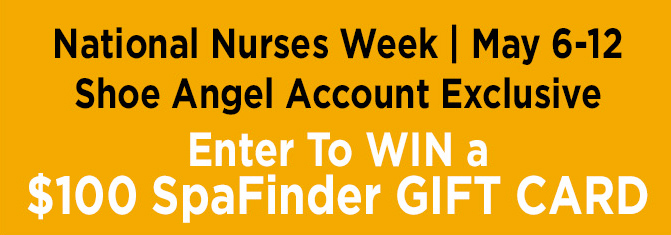
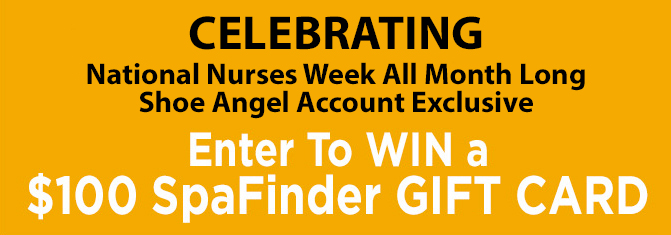
Update To Image
Changed nurses_week_contest.jpg to reflect what was submitted to me. Also cleaned up some of the index.html file. Will revisit.

Changed region(s): [[0.0596, 0.0596, 0.924, 0.5064]]

diff --git a/index.html b/index.html
@@ -18,18 +18,14 @@
   <link href="https://fonts.googleapis.com/css?family=Lato:300,400" rel="stylesheet">
   <link rel="stylesheet" href="https://maxcdn.bootstrapcdn.com/bootstrap/4.0.0/css/bootstrap.min.css" integrity="sha384-Gn5384xqQ1aoWXA+058RXPxPg6fy4IWvTNh0E263XmFcJlSAwiGgFAW/dAiS6JXm" crossorigin="anonymous">
   <link rel="icon" type="image/png" href="../images/img/favicon2.png" />
-
   <link rel="stylesheet" type="text/css" href="/style.css" />
-
   <!-- Global site tag (gtag.js) - Google Analytics -->
 <script async src="https://www.googletagmanager.com/gtag/js?id=UA-112659555-1"></script>
 <script>
   window.dataLayer = window.dataLayer || [];
   function gtag(){dataLayer.push(arguments);}
   gtag('js', new Date());
-
   gtag('config', 'UA-112659555-1');
-
 </script>
 <script defer src="https://use.fontawesome.com/releases/v5.0.6/js/all.js"></script>
 <!-- Google Tag Manager -->
@@ -40,14 +36,11 @@ j=d.createElement(s),dl=l!='dataLayer'?'&l='+l:'';j.async=true;j.src=
 })(window,document,'script','dataLayer','GTM-P9GWHM2');</script>
 <!-- End Google Tag Manager -->
 </head>
-
-
 <body>
   <!-- Google Tag Manager (noscript) -->
 <noscript><iframe src="https://www.googletagmanager.com/ns.html?id=GTM-P9GWHM2"
 height="0" width="0" style="display:none;visibility:hidden"></iframe></noscript>
 <!-- End Google Tag Manager (noscript) -->
-
   <nav>
     <div class="logo">
 			<a href="http://shoeangel.com/">
@@ -55,106 +48,52 @@ height="0" width="0" style="display:none;visibility:hidden"></iframe></noscript>
 			</a>
 		</div>
     <div class="menu">
-      
         <ul class="navigation">
-          
-            
-            
-
             <li class="first  ">
               <a class="" href="/about/">About</a>
             </li>
-          
-            
-            
-
             <li class="  ">
               <a class="" href="/brands/">Brands</a>
             </li>
-          
-            
-            
-
             <li class="  ">
               <a class="" href="/donations/">Donations</a>
             </li>
-          
-            
-            
-
             <li class="  ">
               <a class="" href="/faq/">FAQs</a>
             </li>
-          
-            
-            
-
             <li class="  ">
               <a class="" href="/contact/">Contact</a>
             </li>
-          
-            
-            
-
             <li class="  last">
               <a class="" href="https://www.customfit.me/cfshoeangelcmdlogin.aspx">Login</a>
             </li>
-          
         </ul>
-      
     </div>
     <div class="hamburger-menu">
       <div class="bar"></div>
     </div>
 </nav>
 <div class="mobile-menu">
-  
     <ul class="navigation">
-      
-        
-        
-
         <li class="first  ">
           <a class="" href="/about/">About</a>
         </li>
-      
-        
-        
-
         <li class="  ">
           <a class="" href="/brands/">Brands</a>
         </li>
-      
-        
-        
-
         <li class="  ">
           <a class="" href="/donations/">Donations</a>
         </li>
-      
-        
-        
-
         <li class="  ">
           <a class="" href="/faq/">FAQs</a>
         </li>
-      
-        
-        
-
         <li class="  ">
           <a class="" href="/contact/">Contact</a>
         </li>
-      
-        
-        
-
         <li class="  last">
           <a class="" href="https://www.customfit.me/cfshoeangelcmdlogin.aspx">Login</a>
         </li>
-      
     </ul>
-  
 </div>
 		<!-- <nav role="navigation" class="main-nav" id="main_nav">
 			<div id="nav-icon1">
@@ -163,114 +102,56 @@ height="0" width="0" style="display:none;visibility:hidden"></iframe></noscript>
 			</div>
 		</nav>
 		<div id="submenu" class="submenu">
-			
 	  		<ul class="navigation">
-			    
-			      
-			      
-
 			      <li class="first  ">
 			        <a class="" href="/about/">About</a>
 			      </li>
-			    
-			      
-			      
-
 			      <li class="  ">
 			        <a class="" href="/brands/">Brands</a>
 			      </li>
-			    
-			      
-			      
-
 			      <li class="  ">
 			        <a class="" href="/donations/">Donations</a>
 			      </li>
-			    
-			      
-			      
-
 			      <li class="  ">
 			        <a class="" href="/faq/">FAQs</a>
 			      </li>
-			    
-			      
-			      
-
 			      <li class="  ">
 			        <a class="" href="/contact/">Contact</a>
 			      </li>
-			    
-			      
-			      
-
 			      <li class="  last">
 			        <a class="" href="https://www.customfit.me/cfshoeangelcmdlogin.aspx">Login</a>
 			      </li>
-			    
-			  </ul>
-			
+			  </ul?
 		</div>
-
 		<nav id="main_nav_desktop">
-			
 	  		<ul class="navigation">
-			    
-			      
-			      
-
 			      <li class="first  ">
 			        <a class="" href="/about/">About</a>
 			      </li>
-			    
-			      
-			      
-
 			      <li class="  ">
 			        <a class="" href="/brands/">Brands</a>
 			      </li>
-			    
-			      
-			      
-
 			      <li class="  ">
 			        <a class="" href="/donations/">Donations</a>
 			      </li>
-			    
-			      
-			      
-
 			      <li class="  ">
 			        <a class="" href="/faq/">FAQs</a>
 			      </li>
-			    
-			      
-			      
-
 			      <li class="  ">
 			        <a class="" href="/contact/">Contact</a>
 			      </li>
-			    
-			      
-			      
-
 			      <li class="  last">
 			        <a class="" href="https://www.customfit.me/cfshoeangelcmdlogin.aspx">Login</a>
 			      </li>
-			    
 			  </ul>
-			
 		</nav>
 	</div>
-
 		<script>
 			document.getElementById('nav-icon1').onclick = function() {
 			    this.classList.toggle('cross');
 					document.getElementById('submenu').classList.toggle('open');
 			}
 		</script> -->
-
-
   <!--HERO-->
   <div class="bg">
     <div class="hero">
@@ -283,8 +164,6 @@ height="0" width="0" style="display:none;visibility:hidden"></iframe></noscript>
     <div class="hero2"><h1>Footwear Programs Benefiting Medical<br>Professionals and the Communities They Serve</h1></div>
   </div> -->
   <!--CLOSE HERO-->
-
-
 <div class="boxbox buckets">
   <div class="row align-items-center">
     <div class="col-lg">
@@ -301,7 +180,6 @@ height="0" width="0" style="display:none;visibility:hidden"></iframe></noscript>
     </div>
   </div>
 </div>
-
 <div class="boxbox main-box">
   <div class="row align-items-center full-box">
     <div class="col-lg text-left">
@@ -314,7 +192,6 @@ height="0" width="0" style="display:none;visibility:hidden"></iframe></noscript>
     </div>
   </div>
 </div>
-
 <div class="boxbox main-box">
   <div class="row align-items-center full-box">
     <div class="col-lg order-2 order-lg-1">
@@ -327,7 +204,6 @@ height="0" width="0" style="display:none;visibility:hidden"></iframe></noscript>
     </div>
   </div>
 </div>
-
 <div class="boxbox main-box">
   <div class="row align-items-center full-box">
     <div class="col-lg text-left">
@@ -340,8 +216,6 @@ height="0" width="0" style="display:none;visibility:hidden"></iframe></noscript>
     </div>
   </div>
 </div>
-
-
 <div class="container" id="contact">
     <h2>Find Out More</h2>
     <div class="contact">
@@ -365,9 +239,6 @@ height="0" width="0" style="display:none;visibility:hidden"></iframe></noscript>
       <!-- <p><strong>Note:</strong> The Shoe Angel footwear program is currently only offered to continental U.S., Alaska, Hawaii, and Puerto Rico.</p> -->
     </div>
   </div>
-
-
-
   <!--FOOTER-->
 <footer>
   <div class="footer">
@@ -411,7 +282,6 @@ height="0" width="0" style="display:none;visibility:hidden"></iframe></noscript>
   </div>
   <p class="copyright">&copy; <script type="text/javascript">document.write(new Date().getFullYear());</script> Lehigh Outfitters. Shoe Angel is a branded service of Lehigh Outfitters, LLC, a Rocky Brands company. All rights reserved.</p>
 </footer>
-
 <script type="text/javascript">
 _linkedin_data_partner_id = "196441";
 </script><script type="text/javascript">
@@ -424,17 +294,13 @@ s.parentNode.insertBefore(b, s);})();
 <noscript>
 <img height="1" width="1" style="display:none;" alt="" src="https://dc.ads.linkedin.com/collect/?pid=196441&fmt=gif" />
 </noscript>
-
 <script src="https://ajax.googleapis.com/ajax/libs/jquery/3.1.0/jquery.min.js"></script>
 <script src="https://cdnjs.cloudflare.com/ajax/libs/popper.js/1.12.9/umd/popper.min.js" integrity="sha384-ApNbgh9B+Y1QKtv3Rn7W3mgPxhU9K/ScQsAP7hUibX39j7fakFPskvXusvfa0b4Q" crossorigin="anonymous"></script>
 <script src="https://maxcdn.bootstrapcdn.com/bootstrap/4.0.0/js/bootstrap.min.js" integrity="sha384-JZR6Spejh4U02d8jOt6vLEHfe/JQGiRRSQQxSfFWpi1MquVdAyjUar5+76PVCmYl" crossorigin="anonymous"></script>
-
 <!-- Start of HubSpot Embed Code -->
 <script type="text/javascript" id="hs-script-loader" async defer src="//js.hs-scripts.com/4392020.js"></script>
 <!-- End of HubSpot Embed Code -->
-
 <script type="text/javascript">
-
 $(document).ready(function(){
 	$('a[href^="#"]').on('click',function (e) {
 	    e.preventDefault();
@@ -453,14 +319,10 @@ $(document).ready(function(){
 $('.counter').each(function() {
   var $this = $(this),
       countTo = $this.attr('data-count');
-
   $({ countNum: $this.text()}).animate({
     countNum: countTo
-
   },
-
   {
-
     duration: 2000,
     easing:'linear',
     step: function() {
@@ -470,17 +332,13 @@ $('.counter').each(function() {
       $this.text(this.countNum);
       //alert('finished');
     }
-
   });
-
 });
-
 $(document).ready(function() {
 	$('.counter').addClass("prefix");
 });
 
 // Hamburger Menu //
-
 (function () {
 $('.hamburger-menu').on('click', function() {
 	$('.bar').toggleClass('animate');
@@ -488,7 +346,6 @@ $('.hamburger-menu').on('click', function() {
 })();
 
 $('.mobile-menu').hide();
-
 (function (){
 	$('.hamburger-menu').on('click', function(){
 		$('.mobile-menu').slideToggle(300);
@@ -501,12 +358,7 @@ $('.mobile-menu ul li a').on('click', function() {
 	$('.bar').toggleClass('animate');
 })
 })();
-
-
 </script>
 <!-- <script src="js/scripts.js"></script> -->
-
-
-
   </body>
   </html>
